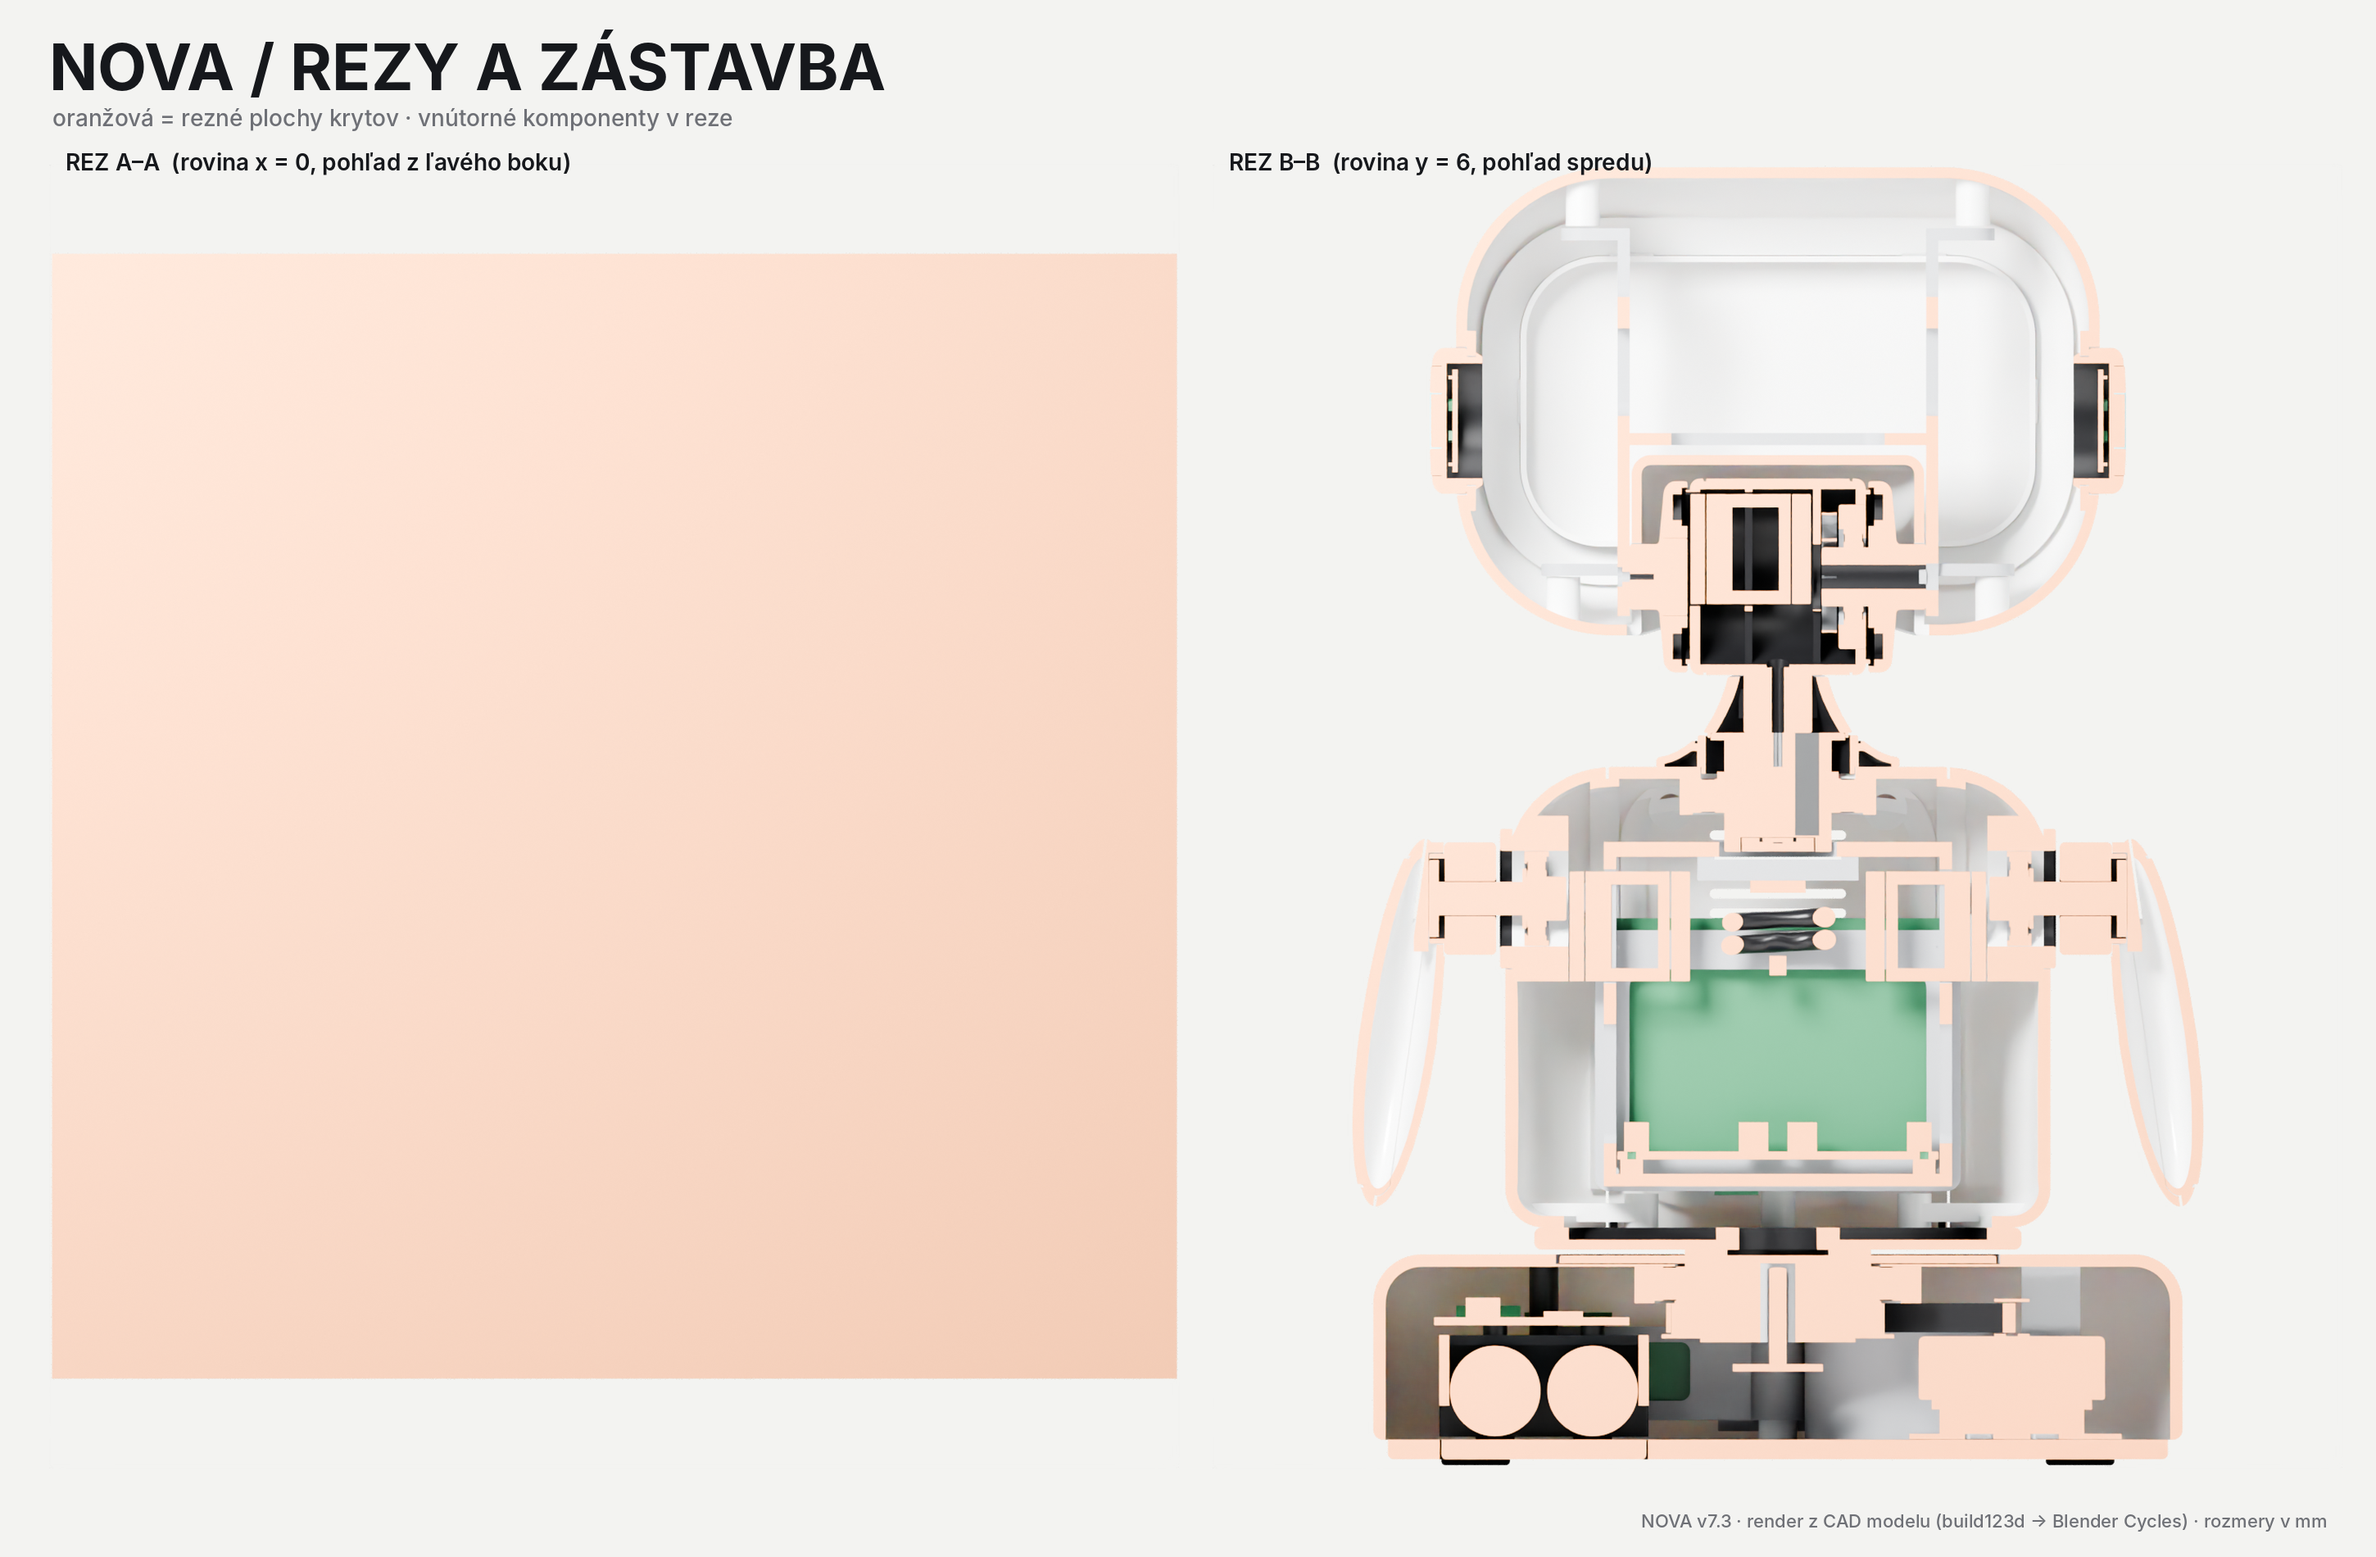
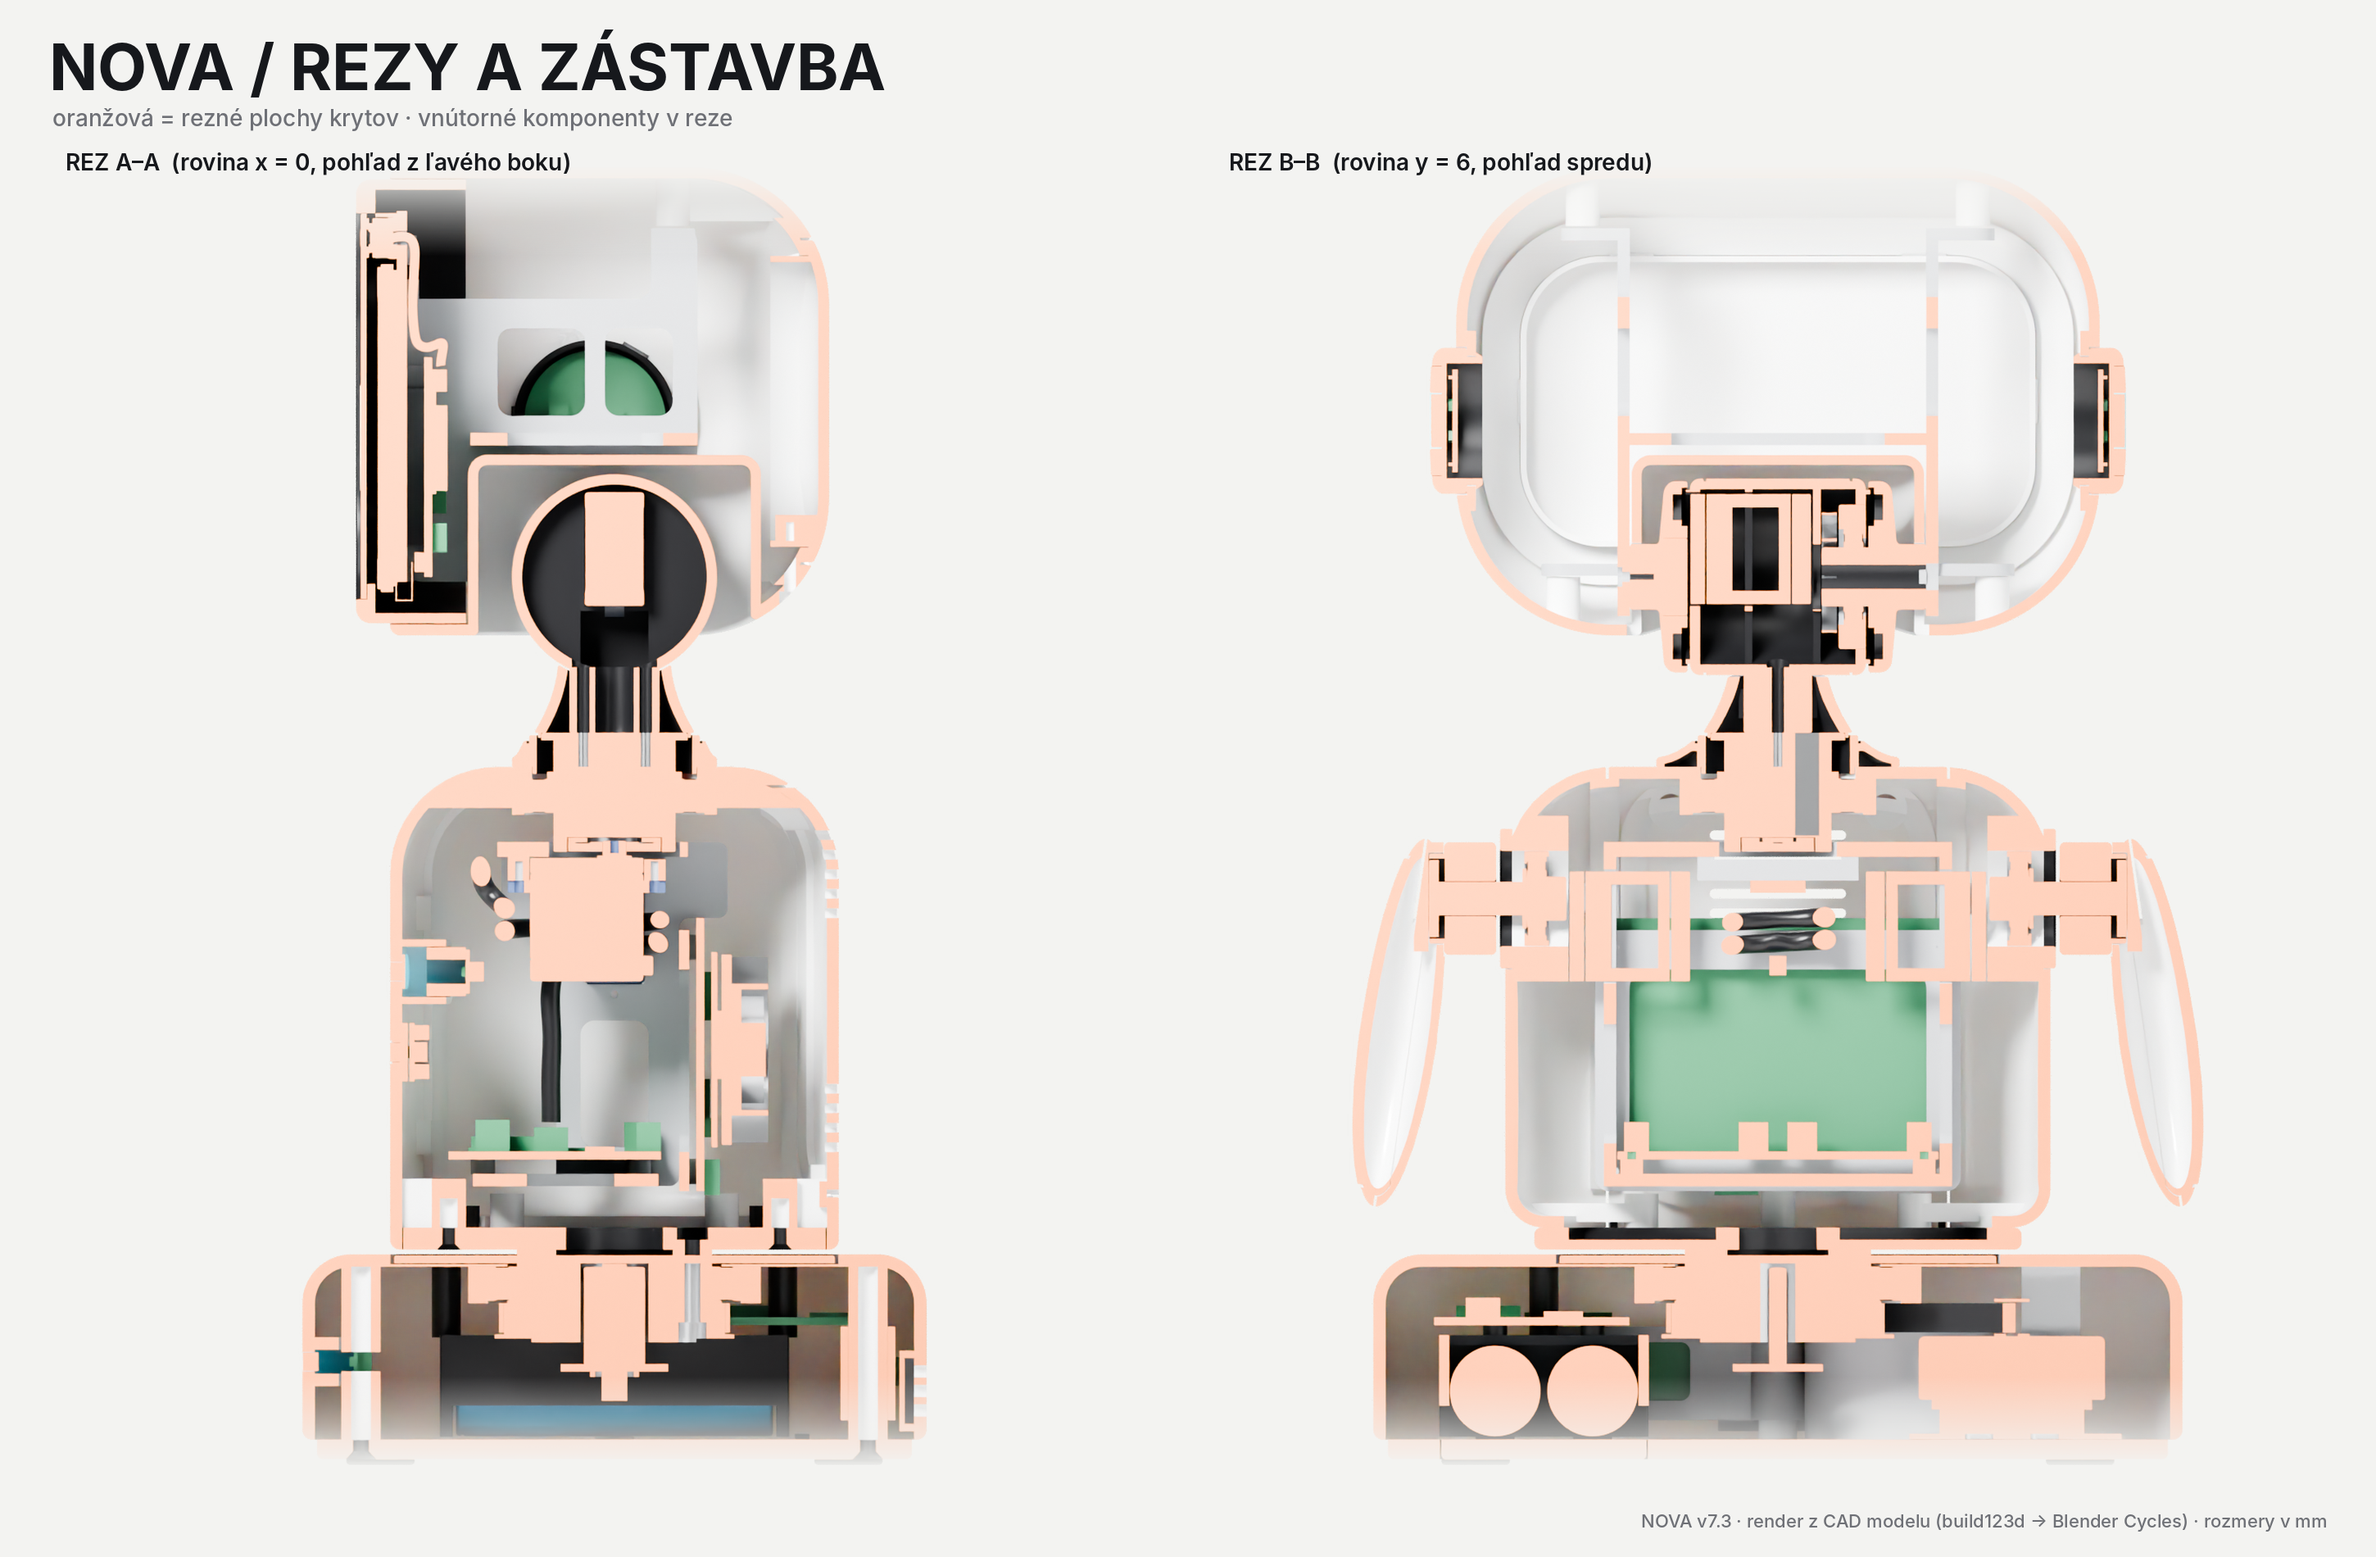
Sheets: callout text/leader layout, tighter exploded framing; darker section caps
Claude-Session: https://claude.ai/code/session_01N8NysgmBVvUJuw9UGwdpKH

diff --git a/nova/render/make_sheets.py b/nova/render/make_sheets.py
@@ -326,10 +326,15 @@ def callouts(sh, d, rd, view, recs, factor, items, area, label_fn, scale=1.0, of
 
     for side, group in (("L", left), ("R", right)):
         lys = distribute(group)
-        for (pid, px, py), ly in zip(group, lys):
+        if not group:
+            continue
+        tws = [d.textlength(label_fn(pid), font=f) for pid, _, _ in group]
+        col = max(tws) + 30
+        for (pid, px, py), ly, tw in zip(group, lys, tws):
             lx = x0 + 20 if side == "L" else x1 - 20
-            elbow = lx + (330 if side == "L" else -330)
-            d.line([(px, py), (elbow, ly), (lx + (300 if side == "L" else -300), ly)], fill=S.ACCENT, width=2)
+            elbow = lx + (col + 30 if side == "L" else -(col + 30))
+            start = lx + (tw + 12 if side == "L" else -(tw + 12))
+            d.line([(start, ly), (elbow, ly), (px, py)], fill=S.ACCENT, width=2)
             d.ellipse([px - 6, py - 6, px + 6, py + 6], fill=S.ACCENT)
             txt = label_fn(pid)
             if side == "L":
@@ -355,7 +360,7 @@ def sheet_exploded(q, recs):
     factor = 1.0
     ovr = group_explode(recs)
     rd = render(dict(res=list(q["big"]), samples=q["samples"], explode_override=ovr, views=["iso"], lens=60,
-                     margin=0.05, shadow=False), "03_explode")
+                     margin=0.02, dist=0.78, shadow=False), "03_explode")
     W, H = 3000, 2100
     sh, d = new_sheet(W, H, "NOVA / ROZLOŽENÝ POHĽAD", "všetky vonkajšie diely · čísla dielov podľa kusovníka")
     im = Image.open(os.path.join(rd, "iso.png")).convert("RGBA")

diff --git a/nova/render/render.py b/nova/render/render.py
@@ -127,7 +127,7 @@ def cap_material():
     m = bpy.data.materials.new("section_cap")
     m.use_nodes = True
     b = m.node_tree.nodes["Principled BSDF"]
-    b.inputs["Base Color"].default_value = (0.90, 0.22, 0.04, 1)
+    b.inputs["Base Color"].default_value = (0.50, 0.09, 0.012, 1)
     b.inputs["Roughness"].default_value = 0.7
     _MATS["section_cap"] = m
     return m
